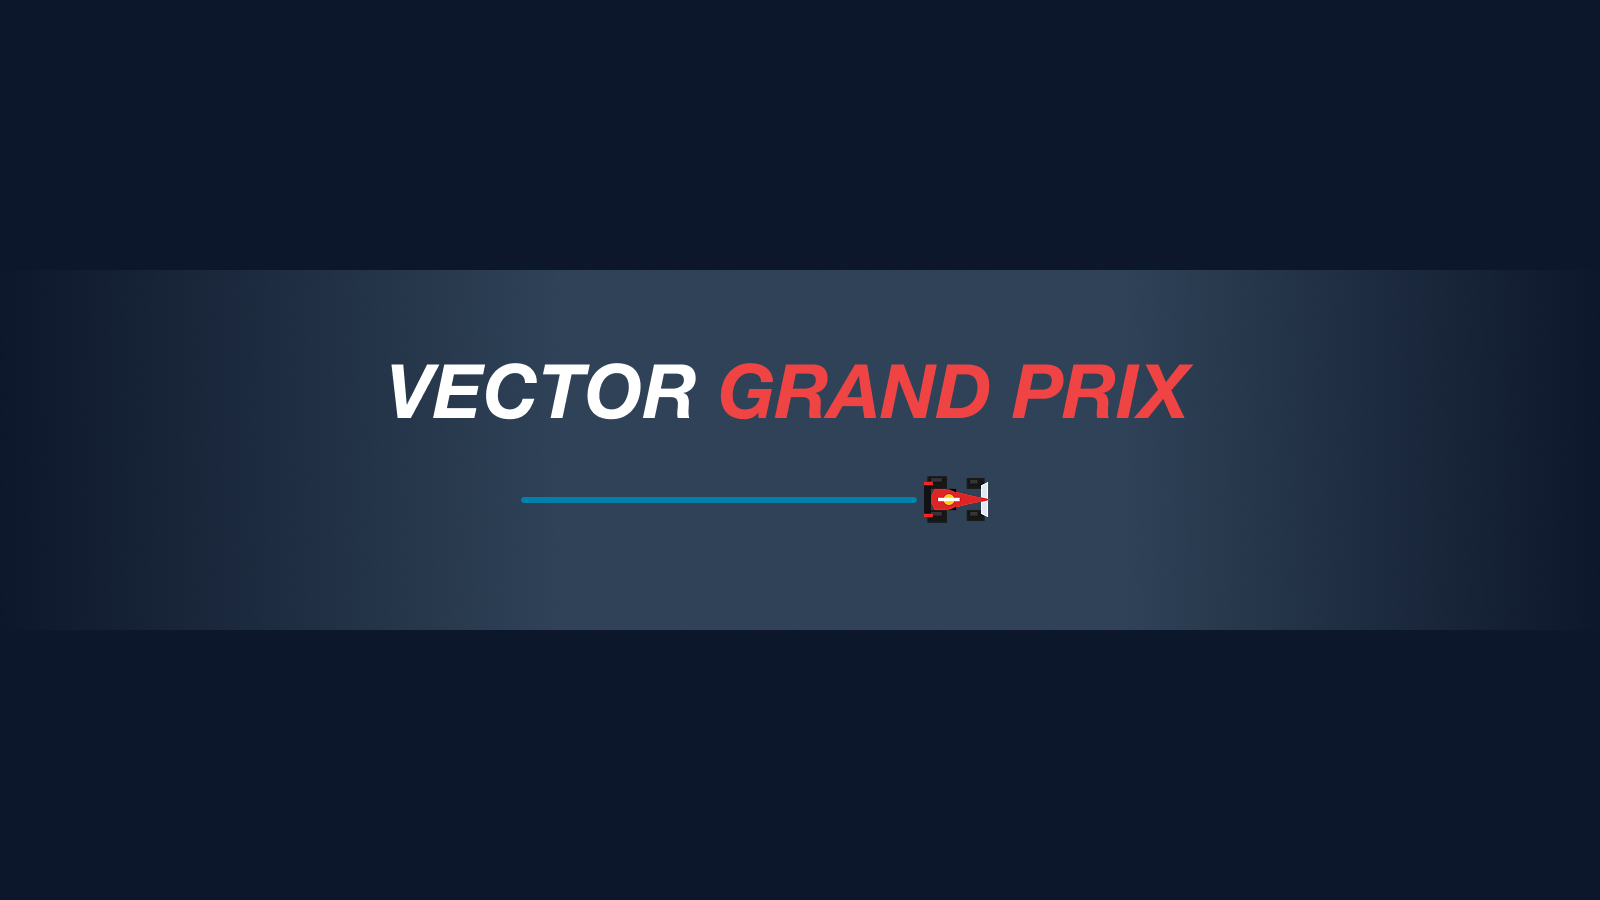
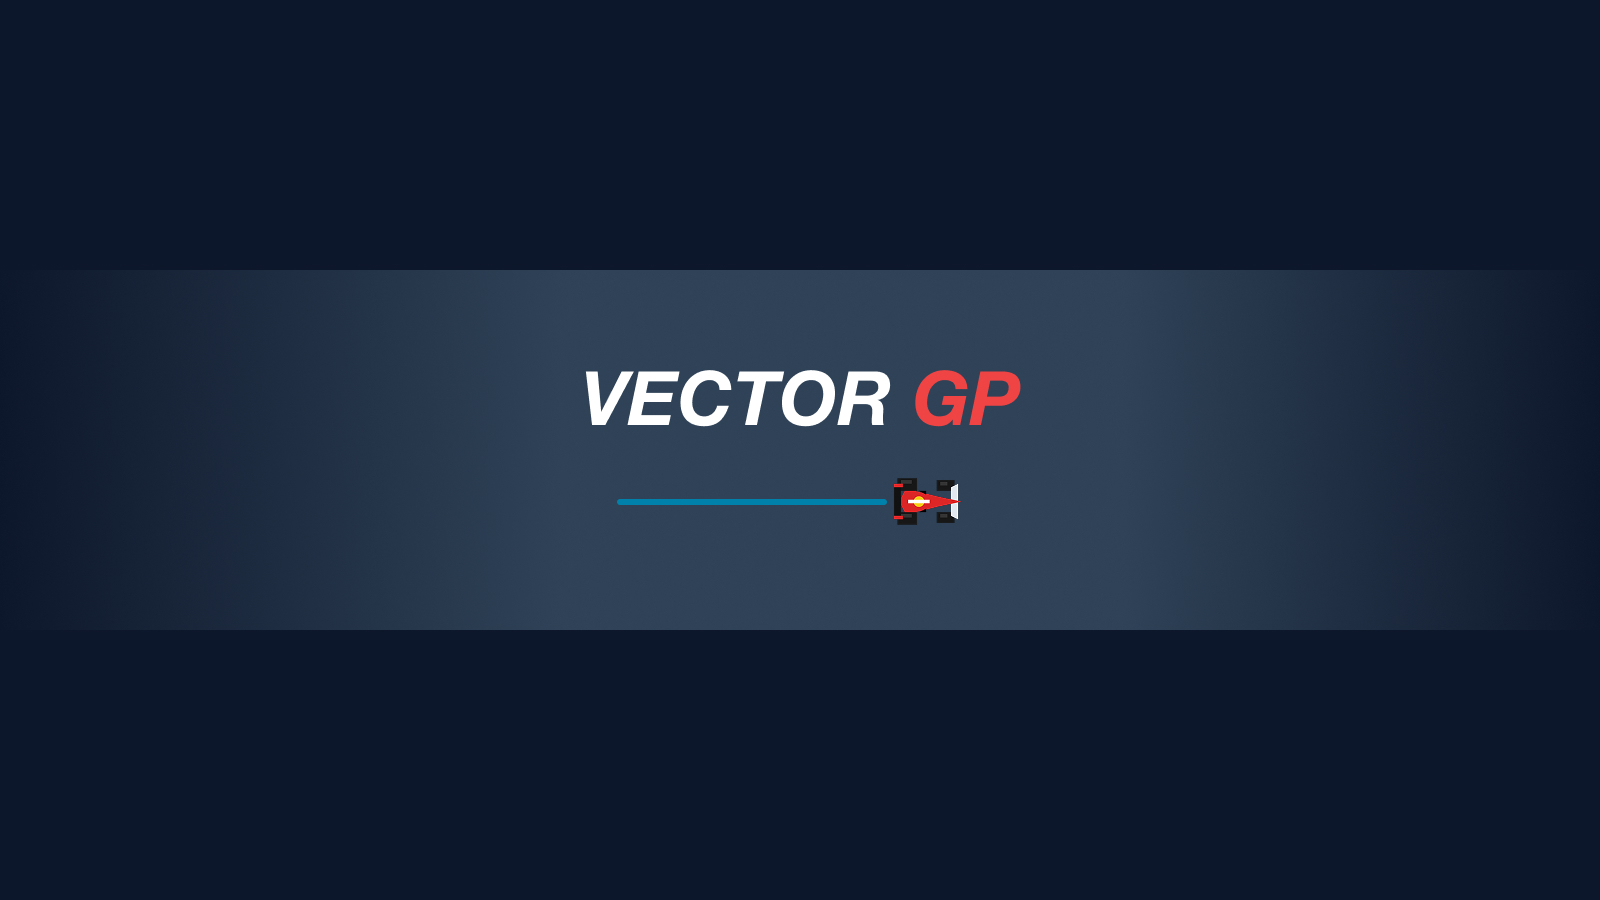
Add files via upload

Changed region(s): [[0.2188, 0.4044, 0.75, 0.4978], [0.3125, 0.5289, 0.625, 0.5911]]

diff --git a/index.html b/index.html
@@ -14,27 +14,27 @@
     <meta charset="UTF-8">
     <meta name="viewport"
         content="width=device-width, initial-scale=1.0, maximum-scale=1.0, user-scalable=no, viewport-fit=cover">
-    <title>Vector Grand Prix: Formula Racing Simulator</title>
+    <title>Vector GP</title>
     <meta name="description"
-        content="Vector Grand Prix is a free browser-based formula racing game. Steer with arrow keys or A/D, drift around circuits, and set your fastest lap without crashing. New track every Wednesday at 07:00 UTC.">
+        content="Play Vector GP - a minimalist web vector racing game. Set your fastest lap through short time trials, precise controls, and quick retries. New track every Wednesday at 07:00 UTC.">
     <meta name="keywords"
-        content="formula racing, grand prix game, vector racing, physics-based racing, circuit driver, retro racer, browser game, high speed racing, lap time challenge, global circuits">
+        content="vector gp, vector racing, free racing game, physics-based racing, circuit driver, retro racer, web game, browser game, high speed racing, lap time challenge, global circuits, quick retry, racetrack game, trackmania like game, trackmania, grand prix, time attack racing, indie games, formula racing game, open wheel racing game">
     <meta name="author" content="Bogdan Popa (@shimrut)">
 
     <!-- Open Graph / Facebook -->
     <meta property="og:type" content="website">
     <meta property="og:url" content="https://vectorgp.run/">
-    <meta property="og:title" content="Vector Grand Prix: Formula Racing Simulator">
+    <meta property="og:title" content="Vector GP">
     <meta property="og:description"
-        content="High-stakes vector formula racing. Master the circuits and set the ultimate lap time.">
+        content="A minimalist web vector racing game with short time trials, precise controls, and quick retries.">
     <meta property="og:image" content="https://vectorgp.run/social-preview.png">
 
     <!-- Twitter -->
     <meta property="twitter:card" content="summary_large_image">
     <meta property="twitter:url" content="https://vectorgp.run/">
-    <meta property="twitter:title" content="Vector Grand Prix: Formula Racing Simulator">
+    <meta property="twitter:title" content="Vector GP">
     <meta property="twitter:description"
-        content="High-stakes vector formula racing. Master the circuits and set the ultimate lap time.">
+        content="A minimalist web vector racing game. Short tracks, fast retries, and lap-time improvement.">
     <meta property="twitter:image" content="https://vectorgp.run/social-preview.png">
 
     <link rel="canonical" href="https://vectorgp.run/">
@@ -46,14 +46,14 @@
     {
       "@context": "https://schema.org",
       "@type": "WebPage",
-      "name": "Vector Grand Prix: Formula Racing Simulator",
-      "description": "Vector Grand Prix is a free browser-based formula racing game. You steer with arrow keys or A/D, drift around circuits, and try to set your fastest lap without crashing. New track every Wednesday at 07:00 UTC. Play in the browser on desktop or mobile.",
+      "name": "Vector GP",
+      "description": "Vector GP is a free minimalist browser-based vector racing game inspired by the pen and paper Racetrack game. Set your fastest lap through short time trials, precise controls, and quick retries. New track every Wednesday at 07:00 UTC.",
       "inLanguage": "en",
       "url": "https://vectorgp.run/",
       "mainEntity": {
         "@type": "VideoGame",
-        "name": "Vector Grand Prix",
-        "description": "Free browser formula racing game. Steer with keyboard or touch, drift around circuits, set the fastest lap without crashing. New track weekly (Wed 07:00 UTC).",
+        "name": "Vector GP",
+        "description": "Vector GP is a free minimalist browser vector racing game inspired by the pen and paper Racetrack game and built around short time trials. Tracks usually take around 6 to 30 seconds to complete, and the goal is to improve lap times through precision, clean lines, and quick retries.",
         "genre": "Racing",
         "gamePlatform": "Web browser",
         "playMode": "SinglePlayer",
@@ -68,12 +68,11 @@
 <body class="start-overlay-active">
 
     <header role="banner">
-        <h1 id="site-title">Vector <span class="full-name">Grand Prix</span><span class="short-name" style="display: none;">GP</span>
-        </h1>
+        <h1 id="site-title">Vector <span class="full-name">GP</span></h1>
 
         <div class="header-right">
             <a href="https://buy.stripe.com/4gM14pc3ScQecEq1F69sk00" class="header-support-link"
-                target="_blank" rel="noopener noreferrer" title="Support VectorGP for future updates and functionalities">Support 1€</a>
+                target="_blank" rel="noopener noreferrer" title="Support Vector GP for future updates and functionalities">Support 1€</a>
             <div class="header-menu">
                 <button id="header-htp-btn" class="header-menu-trigger" type="button"
                     aria-expanded="false" aria-haspopup="true" aria-controls="header-nav-menu"
@@ -110,7 +109,7 @@
         </div>
     </header>
 
-    <main id="game-container" role="main" aria-label="Vector Grand Prix racing game">
+    <main id="game-container" role="main" aria-label="Vector GP racing game">
         <!-- HUD Bar -->
         <div class="hud-bar">
             <button id="hud-stats-btn" class="hud-stats" type="button" aria-label="Show your 5 personal best lap times" disabled>
@@ -125,8 +124,7 @@
 
         <canvas id="gameCanvas" aria-label="Racing track and car"></canvas>
         <div class="key-hint">
-            A / D or Arrows to Steer
-            <span class="version-label">v 0.71</span>
+            <span class="version-label">v 0.43</span>
         </div>
 
         <!-- Start Screen Overlay -->
@@ -198,7 +196,7 @@
                     </button>
                 </div>
 
-                <button id="modal-reset-btn">Box Box <kbd class="modal-btn-kbd">R</kbd></button>
+                <button id="modal-reset-btn">Race Again <kbd class="modal-btn-kbd">R</kbd></button>
             </div>
 
             <div id="modal-runs-view" class="modal-view">
@@ -226,7 +224,7 @@
         </div>
     </div>
 
-    <script type="module" src="game/index.js?v=0.75"></script>
+    <script type="module" src="game/index.js?v=0.90"></script>
 </body>
 
 </html>

diff --git a/changelog.html b/changelog.html
@@ -13,21 +13,21 @@
     </script>
     <meta charset="UTF-8">
     <meta name="viewport" content="width=device-width, initial-scale=1.0, viewport-fit=cover">
-    <title>Changelog | Vector Grand Prix</title>
-    <meta name="description" content="What's new in Vector Grand Prix: major player-facing racing updates, visual upgrades, and important gameplay improvements.">
-    <meta name="keywords" content="vector grand prix changelog, racing game updates, gameplay improvements, formula racing game">
-    <meta name="author" content="Vector Grand Prix Team">
+    <title>Changelog | Vector GP</title>
+    <meta name="description" content="What's new in Vector GP: major player-facing racing updates, visual upgrades, and important gameplay improvements.">
+    <meta name="keywords" content="vector gp changelog, racing game updates, gameplay improvements, browser racing game">
+    <meta name="author" content="Vector GP Team">
 
     <meta property="og:type" content="website">
     <meta property="og:url" content="https://vectorgp.run/changelog.html">
-    <meta property="og:title" content="Changelog | Vector Grand Prix">
-    <meta property="og:description" content="What's new in Vector Grand Prix: major player-facing racing updates, visual upgrades, and important gameplay improvements.">
+    <meta property="og:title" content="Changelog | Vector GP">
+    <meta property="og:description" content="What's new in Vector GP: major player-facing racing updates, visual upgrades, and important gameplay improvements.">
     <meta property="og:image" content="https://vectorgp.run/social-preview.png">
 
     <meta property="twitter:card" content="summary_large_image">
     <meta property="twitter:url" content="https://vectorgp.run/changelog.html">
-    <meta property="twitter:title" content="Changelog | Vector Grand Prix">
-    <meta property="twitter:description" content="What's new in Vector Grand Prix: major player-facing racing updates, visual upgrades, and important gameplay improvements.">
+    <meta property="twitter:title" content="Changelog | Vector GP">
+    <meta property="twitter:description" content="What's new in Vector GP: major player-facing racing updates, visual upgrades, and important gameplay improvements.">
     <meta property="twitter:image" content="https://vectorgp.run/social-preview.png">
 
     <link rel="canonical" href="https://vectorgp.run/changelog.html">
@@ -39,15 +39,15 @@
     {
       "@context": "https://schema.org",
       "@type": "WebPage",
-      "name": "Changelog | Vector Grand Prix",
-      "description": "Official changelog for Vector Grand Prix, a browser-based formula racing game. Lists major player-facing updates including visual upgrades, smoother performance, and major gameplay improvements alongside new track releases.",
+      "name": "Changelog | Vector GP",
+      "description": "Official changelog for Vector GP, a browser-based racing game. Lists major player-facing updates including visual upgrades, smoother performance, and major gameplay improvements alongside new track releases.",
       "inLanguage": "en",
       "url": "https://vectorgp.run/changelog.html",
-      "isPartOf": { "@type": "WebSite", "name": "Vector Grand Prix", "url": "https://vectorgp.run/" },
+      "isPartOf": { "@type": "WebSite", "name": "Vector GP", "url": "https://vectorgp.run/" },
       "about": {
         "@type": "VideoGame",
-        "name": "Vector Grand Prix",
-        "description": "Browser-based formula racing game. Master circuits and set the fastest lap time."
+        "name": "Vector GP",
+        "description": "Browser-based racing game. Master circuits and set the fastest lap time."
       }
     }
     </script>
@@ -56,7 +56,7 @@
 <body class="about-page">
 
     <header role="banner">
-        <a href="index.html" class="site-logo">Vector <span class="full-name">Grand Prix</span></a>
+        <a href="index.html" class="site-logo">Vector <span class="full-name">GP</span></a>
         <nav class="header-right" aria-label="Site">
             <a href="index.html"
                 style="color: #94a3b8; text-decoration: none; font-size: 0.8125rem; font-weight: 600; letter-spacing: 0.04em; transition: color 0.2s;">Play</a>
@@ -68,7 +68,22 @@
     <main class="about-page__main" role="main">
         <section class="about-hero" aria-label="Introduction">
             <h1 class="about-hero__title">Changelog</h1>
-            <p class="about-hero__subtitle">Evolution of the simulator. Updates, fixes, and circuit releases.</p>
+            <p class="about-hero__subtitle">Evolution of VectorGP. Updates, fixes, and circuit releases.</p>
+        </section>
+
+        <section class="about-section">
+            <span class="about-section__label">v 0.43 / March 2026</span>
+            <div class="about-content">
+                <h2>Flow & Presentation Update</h2>
+                <p><strong>The run loop is cleaner.</strong> Getting from finish or crash back into another lap now reads more clearly.</p>
+
+                <p><strong>What changed:</strong></p>
+                <ul style="list-style: none; padding: 0; margin: 0; color: #cbd5e1; font-size: 1.0625rem; line-height: 1.75;">
+                    <li style="margin-bottom: 0.5rem; display: flex; gap: 0.5rem;"><span style="color: var(--accent-color);">/</span> The restart button now reads <strong>Race Again.</strong></li>
+                    <li style="margin-bottom: 0.5rem; display: flex; gap: 0.5rem;"><span style="color: var(--accent-color);">/</span> The launch sequence no longer flashes green lights under the <strong>GO!</strong> callout.</li>
+                    <li style="margin-bottom: 0.5rem; display: flex; gap: 0.5rem;"><span style="color: var(--accent-color);">/</span> The speed-line effect around the car has been removed for a cleaner race view.</li>
+                </ul>
+            </div>
         </section>
 
         <section class="about-section">
@@ -151,7 +166,7 @@
 
     <footer
         style="text-align: left; max-width: 42rem; margin: 0 auto; padding: 4rem 1.5rem; color: #475569; font-size: 0.75rem; font-family: var(--mono-font); text-transform: uppercase; letter-spacing: 0.1em;">
-        &copy; 2026 Vector Grand Prix. ALL SYSTEMS NOMINAL.
+        &copy; 2026 Vector GP. ALL SYSTEMS NOMINAL.
     </footer>
 
 </body>

diff --git a/about.html b/about.html
@@ -13,26 +13,26 @@
     </script>
     <meta charset="UTF-8">
     <meta name="viewport" content="width=device-width, initial-scale=1.0, viewport-fit=cover">
-    <title>About | Vector Grand Prix</title>
+    <title>About | Vector GP</title>
     <meta name="description"
-        content="About Vector Grand Prix: a free browser-based formula racing game. Physics-based steering, weekly circuits, no sign-up.">
-    <meta name="keywords" content="vector grand prix about, formula racing game, browser racing, free racing game">
-    <meta name="author" content="Vector Grand Prix Team">
+        content="About Vector GP: a free browser-based racing game. Physics-based steering, weekly circuits, no sign-up.">
+    <meta name="keywords" content="vector gp about, browser racing, free racing game, arcade racing">
+    <meta name="author" content="Vector GP Team">
 
     <meta property="og:type" content="website">
-    <meta property="og:site_name" content="Vector Grand Prix">
+    <meta property="og:site_name" content="Vector GP">
     <meta property="og:url" content="https://vectorgp.run/about.html">
-    <meta property="og:title" content="About | Vector Grand Prix">
+    <meta property="og:title" content="About | Vector GP">
     <meta property="og:description"
-        content="Free browser formula racing. Master circuits, set your best lap. New track every Wednesday.">
+        content="Free browser racing. Master circuits, set your best lap. New track every Wednesday.">
     <meta property="og:image" content="https://vectorgp.run/social-preview.png">
     <meta property="og:locale" content="en_US">
 
     <meta property="twitter:card" content="summary_large_image">
     <meta property="twitter:url" content="https://vectorgp.run/about.html">
-    <meta property="twitter:title" content="About | Vector Grand Prix">
+    <meta property="twitter:title" content="About | Vector GP">
     <meta property="twitter:description"
-        content="Free browser formula racing. Master circuits, set your best lap. New track every Wednesday.">
+        content="Free browser racing. Master circuits, set your best lap. New track every Wednesday.">
     <meta property="twitter:image" content="https://vectorgp.run/social-preview.png">
 
     <link rel="canonical" href="https://vectorgp.run/about.html">
@@ -44,15 +44,15 @@
     {
       "@context": "https://schema.org",
       "@type": "WebPage",
-      "name": "About | Vector Grand Prix",
-      "description": "About Vector Grand Prix: free browser-based formula racing. Physics-based steering, weekly circuits, no sign-up. New track every Wednesday at 07:00 UTC. Play on desktop or mobile.",
+      "name": "About | Vector GP",
+      "description": "About Vector GP: free browser-based racing. Physics-based steering, weekly circuits, no sign-up. New track every Wednesday at 07:00 UTC. Play on desktop or mobile.",
       "inLanguage": "en",
       "url": "https://vectorgp.run/about.html",
-      "isPartOf": { "@type": "WebSite", "name": "Vector Grand Prix", "url": "https://vectorgp.run/" },
+      "isPartOf": { "@type": "WebSite", "name": "Vector GP", "url": "https://vectorgp.run/" },
       "about": {
         "@type": "VideoGame",
-        "name": "Vector Grand Prix",
-        "description": "Free browser formula racing game. Steer with keyboard or touch, drift around circuits, set your best lap without crashing. New track weekly (Wednesday 07:00 UTC).",
+        "name": "Vector GP",
+        "description": "Free browser racing game. Steer with keyboard or touch, drift around circuits, set your best lap without crashing. New track weekly (Wednesday 07:00 UTC).",
         "genre": "Racing",
         "gamePlatform": "Web browser",
         "playMode": "SinglePlayer",
@@ -62,7 +62,7 @@
       },
       "mainEntity": {
         "@type": "VideoGame",
-        "name": "Vector Grand Prix",
+        "name": "Vector GP",
         "genre": "Racing",
         "gamePlatform": "Web browser",
         "playMode": "SinglePlayer"
@@ -81,7 +81,7 @@
 <body class="about-page">
 
     <header role="banner">
-        <a href="index.html" class="site-logo">Vector <span class="full-name">Grand Prix</span></a>
+        <a href="index.html" class="site-logo">Vector <span class="full-name">GP</span></a>
         <nav class="header-right" aria-label="Site">
             <a href="index.html"
                 style="color: #94a3b8; text-decoration: none; font-size: 0.8125rem; font-weight: 600; letter-spacing: 0.04em; transition: color 0.2s;">Play</a>
@@ -92,7 +92,7 @@
 
     <main class="about-page__main" role="main">
         <section class="about-hero" aria-label="Introduction">
-            <h1 class="about-hero__title">Vector Grand Prix</h1>
+            <h1 class="about-hero__title">Vector GP</h1>
             <p class="about-hero__subtitle">A minimalist browser-based racing simulator focused on physics, precision,
                 and the pursuit of the perfect lap.</p>
         </section>
@@ -170,7 +170,7 @@
 
     <footer
         style="text-align: left; max-width: 42rem; margin: 0 auto; padding: 4rem 1.5rem; color: #475569; font-size: 0.75rem; font-family: var(--mono-font); text-transform: uppercase; letter-spacing: 0.1em;">
-        &copy; 2026 Vector Grand Prix. ALL SYSTEMS NOMINAL.
+        &copy; 2026 Vector GP. ALL SYSTEMS NOMINAL.
     </footer>
 
 </body>

diff --git a/styles.css b/styles.css
@@ -100,7 +100,6 @@ a.site-logo {
 }
 
 h1 .full-name,
-h1 .short-name,
 a.site-logo .full-name {
     color: var(--accent-color);
 }
@@ -810,11 +809,6 @@ button.danger:hover {
 }
 
 /* Green Light Style */
-.light.green {
-    background: #22c55e;
-    box-shadow: 0 0 20px #22c55e;
-}
-
 /* GO Message Styling - Positioned higher */
 #go-message {
     position: absolute;
@@ -914,6 +908,12 @@ button.danger:hover {
     height: auto;
 }
 
+#modal-preview-wrap.pending-share {
+    display: block !important;
+    aspect-ratio: 1 / 1;
+    visibility: hidden;
+}
+
 .share-panel {
     width: 100%;
     margin-top: -1.75rem;
@@ -922,6 +922,11 @@ button.danger:hover {
     flex-direction: column;
     align-items: stretch;
     gap: 0.5rem;
+}
+
+#share-panel.pending-share {
+    display: flex !important;
+    visibility: hidden;
 }
 
 #modal-reset-btn {
@@ -1261,16 +1266,14 @@ button.danger:hover {
     bottom: 1rem;
     right: 1rem;
     color: rgba(255, 255, 255, 0.4);
-    font-size: 0.8rem;
+    font-size: 0.65rem;
     text-align: right;
     font-family: monospace;
 }
 
 .key-hint .version-label {
     display: block;
-    font-size: 0.65rem;
     opacity: 0.6;
-    margin-top: 0.25rem;
 }
 
 /* Desktop: center header and HUD content */
@@ -1349,14 +1352,6 @@ button.danger:hover {
 @media (max-width: 768px),
 (hover: none) and (pointer: coarse),
 (max-height: 600px) and (orientation: landscape) {
-    .full-name {
-        display: none;
-    }
-
-    .short-name {
-        display: inline !important;
-    }
-
     /* Keep the returning-player picker compact and readable on touch devices. */
     #start-btn,
     .track-start-btn {
